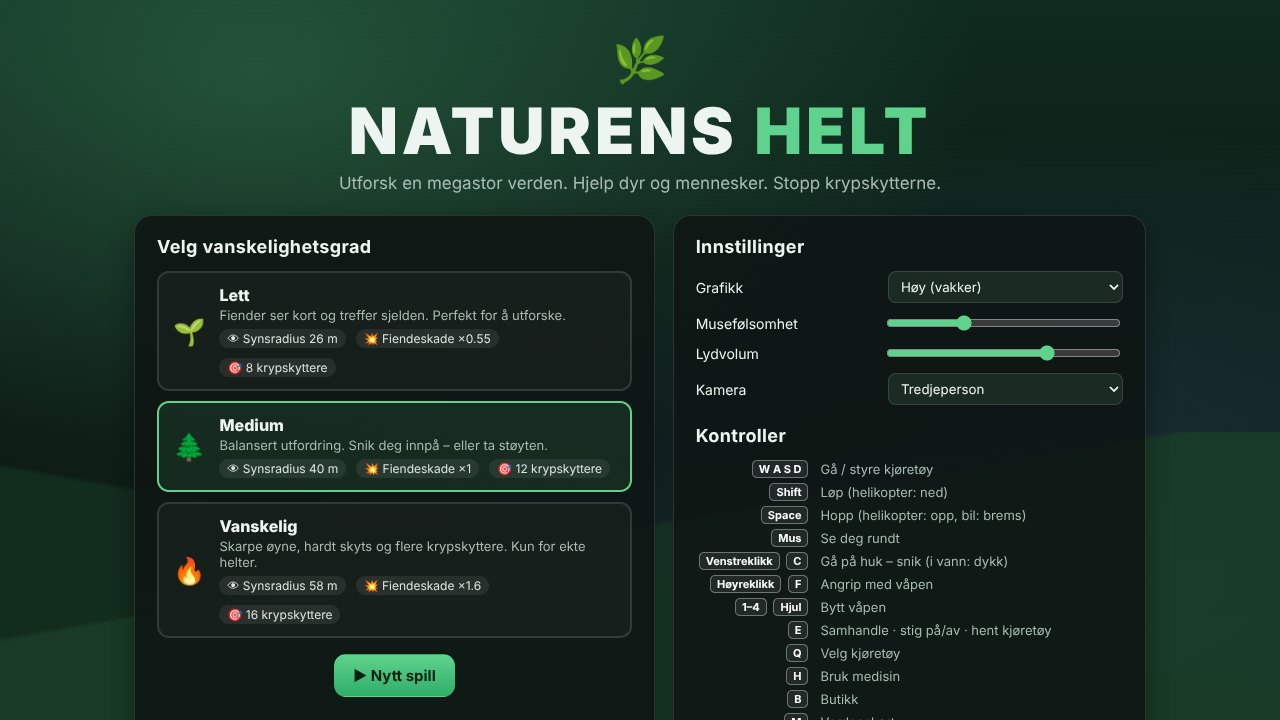
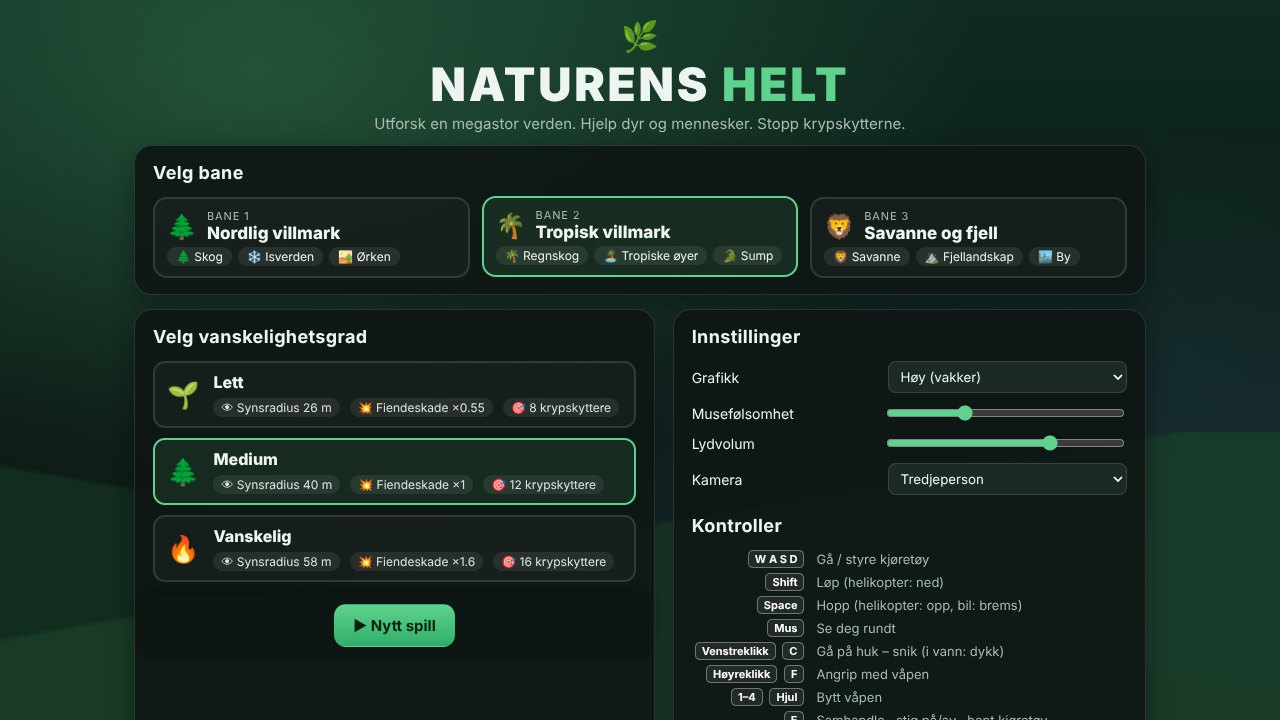
Dokumentasjonsbilder for bane 2 og 3 og ny hovedmeny i README
Claude-Session: https://claude.ai/code/session_01Csp6SxW2gR9hxvQox5Jr7d

Changed region(s): [[0.0938, 0.0306, 0.875, 1.0], [0.7812, 0.9778, 0.8125, 1.0], [0.4688, 0.8556, 0.5, 0.8861]]

diff --git a/README.md b/README.md
@@ -1,16 +1,18 @@
 # 🌿 Naturens Helt
 
 Et 3D-spill i nettleseren (HTML, CSS og JavaScript med [Three.js](https://threejs.org) via CDN).
-Utforsk en megastor verden med skog, ørken og isverden, hjelp dyr og mennesker – og stopp alle krypskytterne. Ingen blod: krypskyttere overgir seg og blir arrestert, og dyr blir bare skremt bort.
+Velg mellom tre megastore verdener – nordlig villmark, tropisk villmark og savanne og fjell – hjelp dyr og mennesker, og stopp alle krypskytterne. Ingen blod: krypskyttere overgir seg og blir arrestert, og dyr blir bare skremt bort.
 
 ![Helikopter over den megastore verdenen](docs/screenshots/07-helikopter.jpg)
 
 ## Bilder fra spillet
 
+### Bane 1 · Nordlig villmark
+
 | | |
 | --- | --- |
-| ![Hovedmeny med vanskelighetsgrad](docs/screenshots/01-meny.jpg) | ![Start i skogen hos skogvokter Siri](docs/screenshots/02-skog-start.jpg) |
-| **Hovedmeny** – velg Lett, Medium eller Vanskelig. | **Start i skogen** – skogvokter Siri gir det første oppdraget. |
+| ![Hovedmeny med banevalg og vanskelighetsgrad](docs/screenshots/01-meny.jpg) | ![Start i skogen hos skogvokter Siri](docs/screenshots/02-skog-start.jpg) |
+| **Hovedmeny** – velg bane og vanskelighetsgrad (Lett, Medium eller Vanskelig). | **Start i skogen** – skogvokter Siri gir det første oppdraget. |
 | ![Snik mot krypskytterleir](docs/screenshots/03-snik-mot-leir.jpg) | ![Krypskyttere angriper i ørkenen](docs/screenshots/04-orken-angrep.jpg) |
 | **Snik** – på huk mot en leir. «?» betyr at krypskytteren er mistenksom. | **Ørken** – krypskytterne har oppdaget deg («!») og skyter. |
 | ![Isverden med isbjørn](docs/screenshots/05-isverden-isbjorn.jpg) | ![Motorbåt på innsjø](docs/screenshots/06-baat.jpg) |
@@ -19,6 +21,24 @@ Utforsk en megastor verden med skog, ørken og isverden, hjelp dyr og mennesker 
 | **Førsteperson** – befri dyr som krypskytterne har fanget. | **Under vann** – følg med på pustemåleren. |
 | ![Butikken](docs/screenshots/10-butikk.jpg) | ![Verdenskart](docs/screenshots/11-verdenskart.jpg) |
 | **Butikken (B)** – våpen, medisin, dyrefôr og kjøretøy. | **Verdenskart (M)** – leirer og rapportert aktivitet. |
+
+### Bane 2 · Tropisk villmark
+
+| | |
+| --- | --- |
+| ![Regnskog med tapir, papegøye og kapybara](docs/screenshots/12-regnskog.jpg) | ![Tropiske øyer med havskilpadder og papegøye](docs/screenshots/13-tropiske-oyer.jpg) |
+| **Regnskog** – tapir, papegøye og kapybara trenger hjelp, og en jaguar lusker i bakgrunnen. | **Tropiske øyer** – turkist vann, palmestrender og havskilpadder. |
+| ![Sump med krokodille i vannkanten](docs/screenshots/14-sump-krokodille.jpg) | |
+| **Sump** – krokodillene lurer i vannet og kan også gå på land. | |
+
+### Bane 3 · Savanne og fjell
+
+| | |
+| --- | --- |
+| ![Afrikansk savanne med elefanter, sjiraff og sebraer](docs/screenshots/15-savanne.jpg) | ![Fjellandskap med steinbukker](docs/screenshots/16-fjellandskap.jpg) |
+| **Savanne** – elefanter, sjiraff, sebraer og neshorn – og løver som jakter. | **Fjellandskap** – steinbukker, snøleoparder og snødekte topper. |
+| ![Snik mot en containerleir i byen](docs/screenshots/17-by-containerleir.jpg) | ![Helikopter over byen](docs/screenshots/18-by-helikopter.jpg) |
+| **By** – smuglerne gjemmer fangede dyr i skipscontainere. | **Helikopter over byen** – du kan også lande på hustakene. |
 
 ## Slik starter du spillet
 
@@ -61,20 +81,20 @@ Velg fritt mellom tre baner i startmenyen. Hver bane er en egen 4 × 4 km verden
 | 🌴 **2 · Tropisk villmark** | Regnskog, tropiske øyer, sump | Jaguar, villsvin, krokodille, hai | Tapir, kapybara, papegøye, havskilpadde |
 | 🦁 **3 · Savanne og fjell** | Afrikansk savanne, fjellandskap, by | Løve, hyene, snøleopard, ulv, bjørn, vakthund, krokodille | Elefant, sjiraff, sebra, neshorn, steinbukk, katt |
 
-I byen gjemmer smuglerne fangede dyr i skipscontainere, og husene blokkerer sikten – perfekt for å snike seg innpå.
+I byen gjemmer smuglerne fangede dyr i skipscontainere, og husene blokkerer sikten – perfekt for å snike seg innpå. Helikopteret kan lande på hustakene.
 
 ## Innhold
 
 - **Verden:** Prosedyrisk generert terreng med tre biomer per bane, innsjøer og hav rundt. Terrenget strømmes inn i biter med detaljnivå etter avstand, og tåke, vannfarge og lyd endrer seg mykt mellom biomene.
 - **Skatter:** Skattekister er gjemt ved trær og steiner, på fjelltopper og på bunnen av innsjøer.
 - **Snik:** Gå på huk for å senke kameraet, bevege deg saktere og bli mye vanskeligere å oppdage – særlig i busker. Snikangrep med macheten får en krypskytter til å overgi seg med én gang.
-- **Fiender:** Krypskyttere og rovdyr (bjørn, isbjørn, ulv, kjempeskorpion og hai) vet ikke hvor du er. De har synsradius, synsfelt og hørsel, og angriper først når de oppdager deg.
+- **Fiender:** Krypskyttere og rovdyr (bjørn, ulv, hai, jaguar, krokodille, løve, snøleopard m.fl.) vet ikke hvor du er. De har synsradius, synsfelt og hørsel, og angriper først når de oppdager deg. Hus, trær og steiner blokkerer sikten.
 - **Helse og pust:** 100 helse. Du kan bli skutt, angrepet av dyr eller drukne hvis du er for lenge i vannet uten båt.
 - **Økonomi:** Tjen mynter på skatter, side-oppdrag (mistede sekker, sultne/tørste dyr, skadde klatrere, dyr i bur) og arrestasjoner. Kjøp våpen, medisin, dyremat/vann og kjøretøy i butikken (B).
 - **Kjøretøy:** Rusten sykkel (start), terrengbil, motorbåt og helikopter.
 - **Vanskelighetsgrad:** Lett, Medium og Vanskelig påvirker fiendenes skade, synsradius og antall krypskyttere.
 - **Seier:** Stopp alle krypskytterne. Verdenskartet (M) viser områder der det er rapportert krypskytteraktivitet.
-- **Lagring:** Spillet lagres automatisk i nettleseren og kan fortsettes fra hovedmenyen.
+- **Lagring:** Spillet lagres automatisk i nettleseren og kan fortsettes fra hovedmenyen (knappen viser hvilken bane som er lagret).
 
 ## Kodestruktur
 
